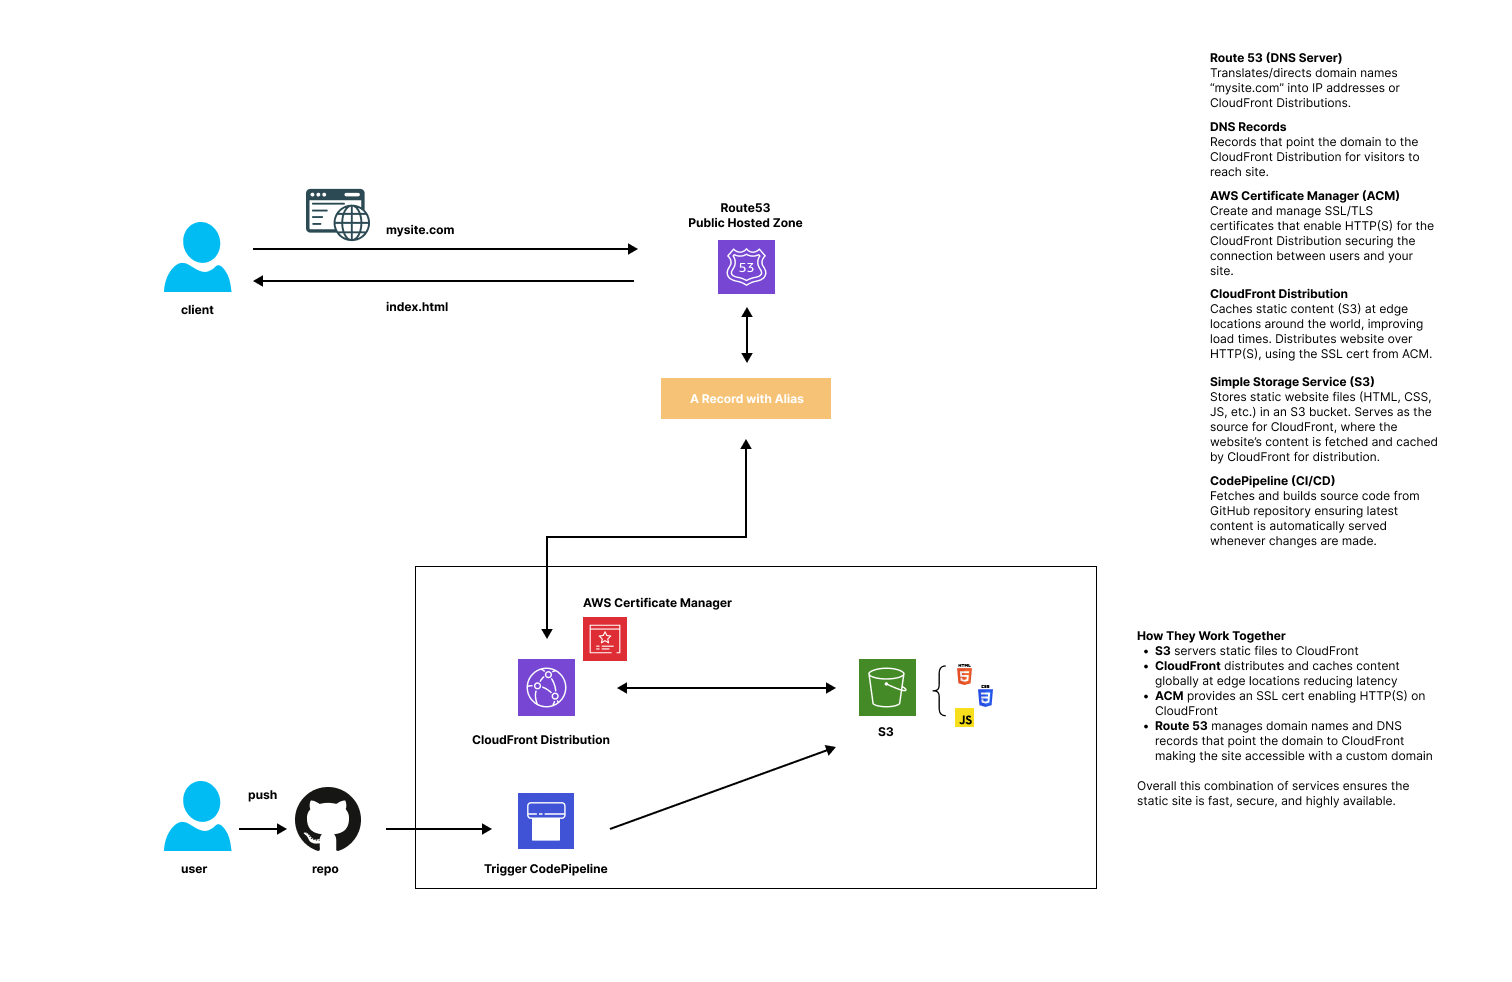
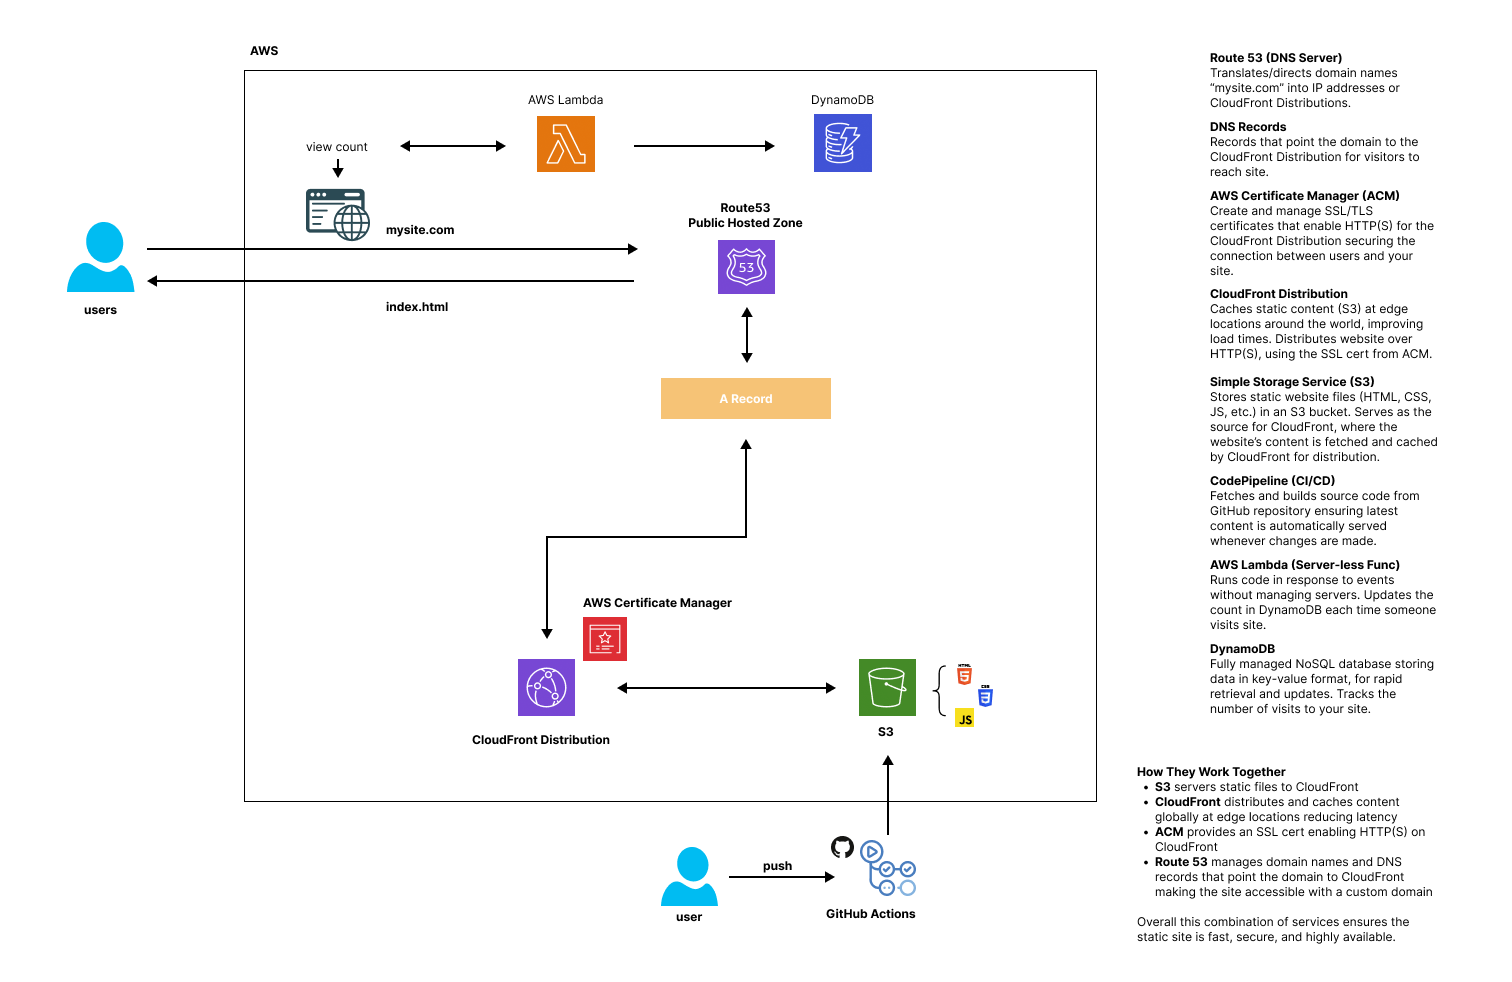
update readme

diff --git a/README.md b/README.md
@@ -1,8 +1,54 @@
-# Portfolio - AWS
+# AWS Cloud Resume Challenge
 
-## About Me
-This is a brief description of me and my experience.
+## Overview
+The AWS Cloud Resume Challenge involves building a resume hosted on AWS with a visitor counter. This project demonstrates my skills in cloud architecture, serverless applications, and web development.
 
 ![Portfolio Diagram](./CD%20Static%20Site%20with%20HTTPS.png)
-## Technologies
-- **Tools:** Route53, DNS Records, CodePipeline, CloudFront Distribution, S3, HTML, CSS, JS
+
+## Goal
+Create a resume website that tracks the number of visitors using AWS services.
+
+## Architecture
+The following AWS services are utilized in this project:
+- **Amazon S3**: Hosts the static resume website files (HTML, CSS, JavaScript), making them publicly accessible.
+- **Amazon DynamoDB**: Stores the visitor count in a NoSQL database. The visitor count is tracked in a single item.
+- **AWS Lambda**: Executes serverless code to update the visitor count in DynamoDB each time a user visits the site.
+- **AWS Route 53**: Manages the DNS records for the domain, allowing users to access the resume via a custom domain.
+- **AWS CloudFront**: Serves as a Content Delivery Network (CDN) to distribute the website content globally and improve loading times.
+- **AWS Certificate Manager**: Provides SSL/TLS certificates to secure the website with HTTPS.
+- **AWS CodePipeline**: Automates the deployment of the site by integrating with the S3 bucket, ensuring continuous delivery of updates.
+
+## Implementation Steps
+1. **Setup S3**: 
+   - Created an S3 bucket to store and serve the resume website.
+
+2. **Configure DynamoDB**:
+   - Created a DynamoDB table with a partition key `id` set to `"counter"` to track the visitor count.
+
+3. **Develop Lambda Function**:
+   - Built a Lambda function to increment the visitor count in DynamoDB and return the updated count.
+   - Assigned necessary permissions to allow the Lambda function to access the DynamoDB table.
+
+4. **Setup Route 53**:
+   - Created a hosted zone in Route 53 and configured DNS settings to point the custom domain to the CloudFront distribution.
+
+5. **Configure CloudFront**:
+   - Set up a CloudFront distribution to serve the S3 content and improve performance globally.
+
+6. **Set Up AWS Certificate Manager**:
+   - Requested and configured an SSL certificate to enable HTTPS for the domain.
+
+7. **Implement CodePipeline**:
+   - Created a CodePipeline to automate the deployment of the website updates directly from the source code repository to the S3 bucket.
+
+## Final Outcome
+The project successfully tracks the number of visitors to the site, demonstrating the use of various AWS services in a practical application. This implementation not only showcases my technical skills but also highlights my ability to integrate cloud services for a seamless user experience.
+
+## Additional Resources
+- [AWS Lambda Documentation](https://docs.aws.amazon.com/lambda/latest/dg/welcome.html)
+- [Amazon DynamoDB Documentation](https://docs.aws.amazon.com/amazondynamodb/latest/developerguide/Introduction.html)
+- [AWS Route 53 Documentation](https://docs.aws.amazon.com/Route53/latest/DeveloperGuide/Welcome.html)
+- [AWS CloudFront Documentation](https://docs.aws.amazon.com/AmazonCloudFront/latest/DeveloperGuide/Welcome.html)
+- [AWS Certificate Manager Documentation](https://docs.aws.amazon.com/acm/latest/userguide/acm-overview.html)
+- [AWS CodePipeline Documentation](https://docs.aws.amazon.com/codepipeline/latest/userguide/welcome.html)
+- [Amazon S3 Documentation](https://docs.aws.amazon.com/AmazonS3/latest/userguide/Welcome.html)
